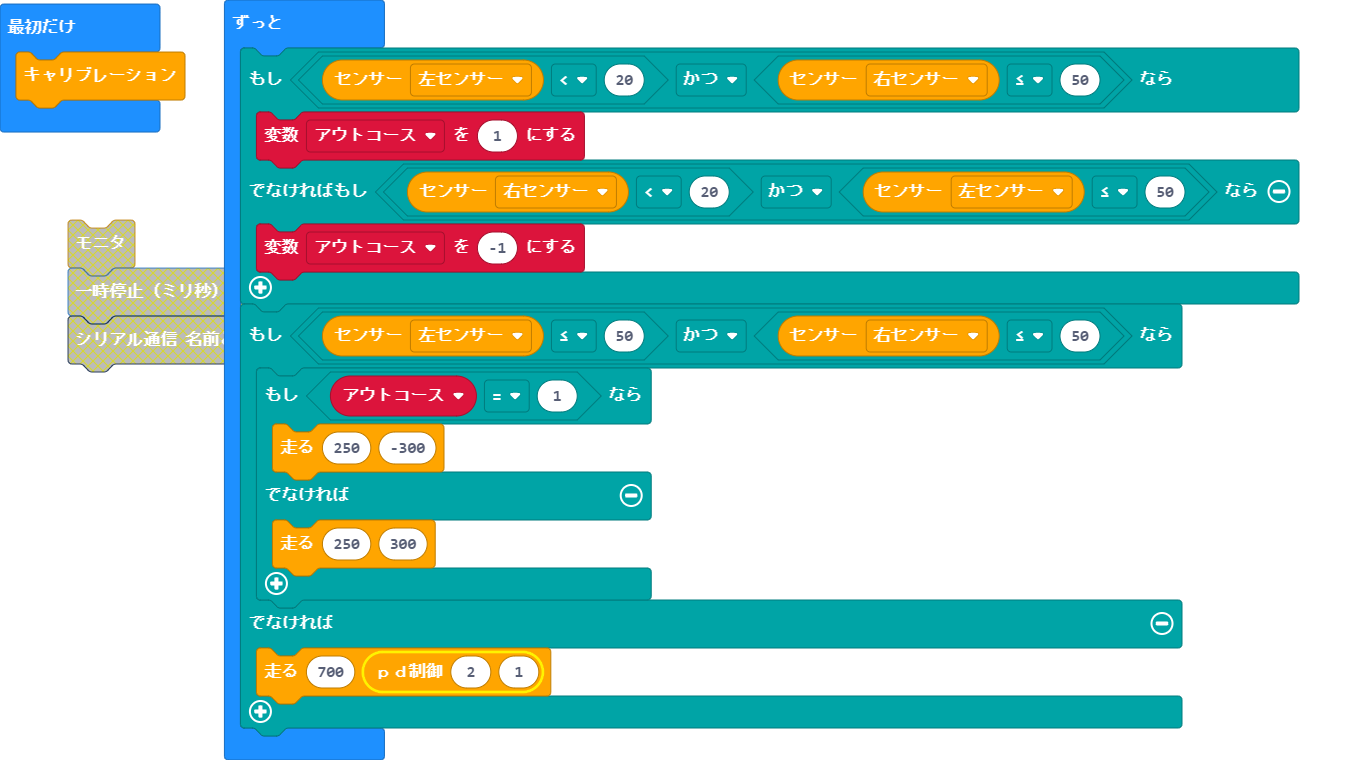
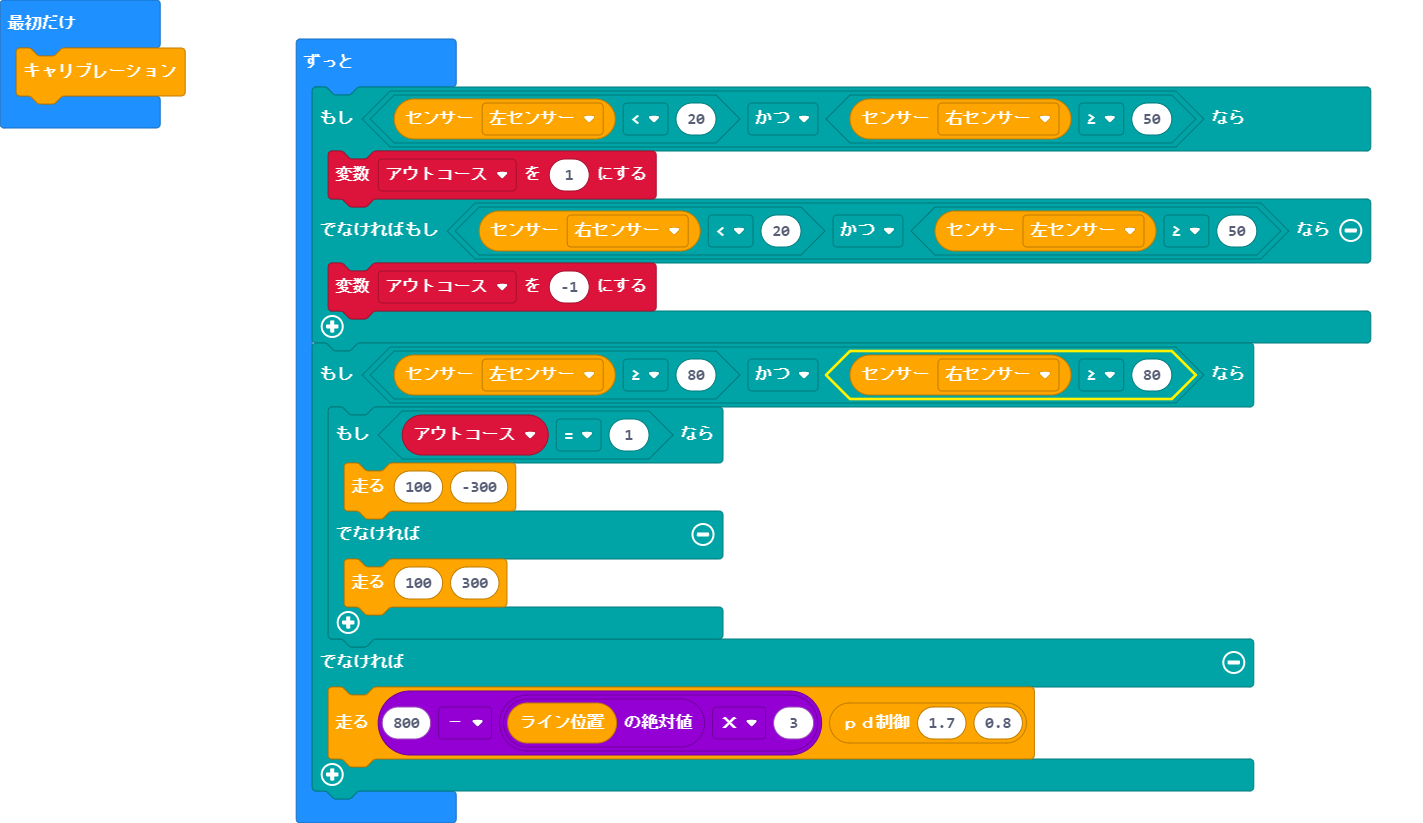
コースアウトの方向を記録する

diff --git a/main.ts b/main.ts
@@ -1,18 +1,18 @@
 let アウトコース = 0
 custom.キャリブレーション()
 basic.forever(function () {
-    if (custom.センサー(sensor.sensor_L) < 20 && custom.センサー(sensor.sensor_R) <= 50) {
+    if (custom.センサー(sensor.sensor_L) < 20 && custom.センサー(sensor.sensor_R) >= 50) {
         アウトコース = 1
-    } else if (custom.センサー(sensor.sensor_R) < 20 && custom.センサー(sensor.sensor_L) <= 50) {
+    } else if (custom.センサー(sensor.sensor_R) < 20 && custom.センサー(sensor.sensor_L) >= 50) {
         アウトコース = -1
     }
-    if (custom.センサー(sensor.sensor_L) <= 50 && custom.センサー(sensor.sensor_R) <= 50) {
+    if (custom.センサー(sensor.sensor_L) >= 80 && custom.センサー(sensor.sensor_R) >= 80) {
         if (アウトコース == 1) {
-            custom.走る(250, -300)
+            custom.走る(100, -300)
         } else {
-            custom.走る(250, 300)
+            custom.走る(100, 300)
         }
     } else {
-        custom.走る(700, custom.ＰＤ制御(2, 1))
+        custom.走る(800 - Math.abs(custom.ライン位置()) * 3, custom.ＰＤ制御(1.7, 0.8))
     }
 })

diff --git a/custom.ts b/custom.ts
@@ -87,8 +87,8 @@ namespace custom {
     //% block
     export function キャリブレーション(): void {
         while (true) {
-            serial.writeLine("calibration")
-            serial.writeNumbers([pins.analogReadPin(AnalogPin.P1), pins.analogReadPin(AnalogPin.P0)])
+//            serial.writeLine("calibration")
+//            serial.writeNumbers([pins.analogReadPin(AnalogPin.P1), pins.analogReadPin(AnalogPin.P0)])
             if (pins.analogReadPin(AnalogPin.P1) < Left_Senser_White) {
                 Left_Senser_White = pins.analogReadPin(AnalogPin.P1)
              }
